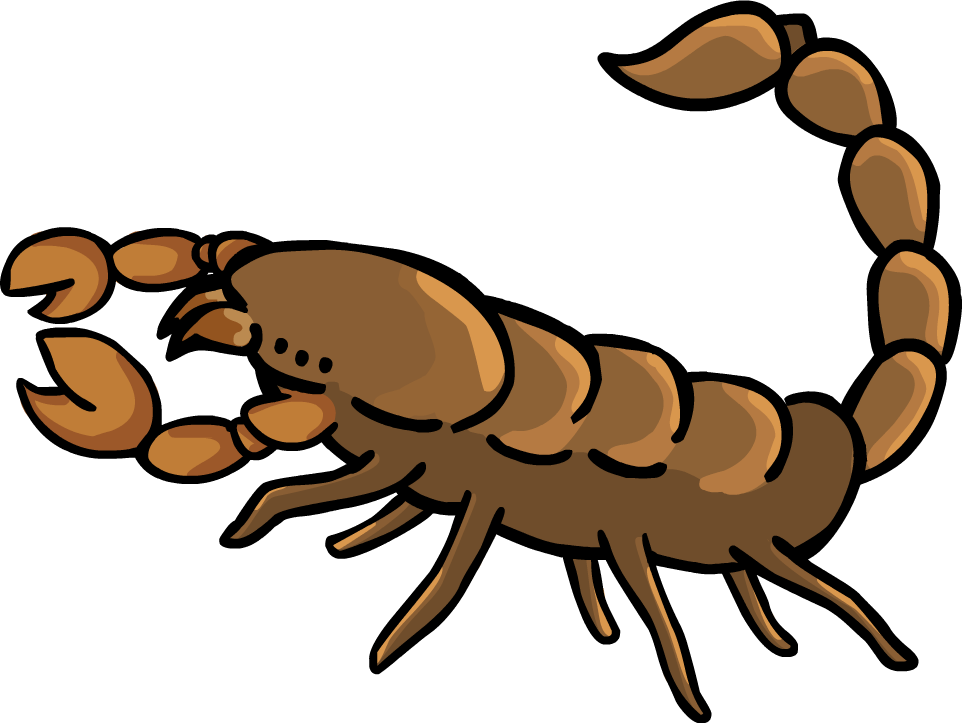
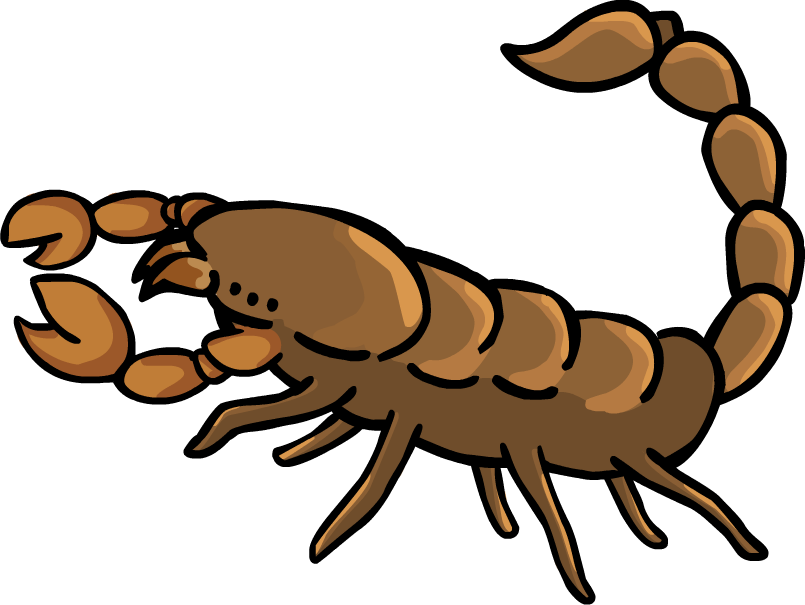
animation finalized?

diff --git a/game/js/Scorpion.js b/game/js/Scorpion.js
@@ -168,6 +168,10 @@ Scorpion = function(game, key, x, y, playerNum){
 
     //misc.
     this.canLightAttack = true; 
+
+    //sound
+    this.jump_sound = game.add.audio('jump_sound');
+
 }
 
 Scorpion.prototype = Object.create(Phaser.Sprite.prototype);
@@ -367,7 +371,7 @@ Scorpion.prototype.lightAttack = function(){
         //this.debugText.text = 'done';
         //this.projectile();
         //this.char.loadTexture('scorpion_idle');
-        this.char.frame= 7;//('Scorpion_Idle');
+        this.char.frame= 4;//('Scorpion_Idle');
         this.changeState(this.input);
         this.action.attacking = false;
         this.canLightAttack = false;
@@ -422,7 +426,7 @@ Scorpion.prototype.heavyAttack = function(){
             //this.action.cancel = false;
             //this.char.loadTexture('scorpion_B2');
 
-            this.char.frame=10;//('Scorpion_HeavyAttack');
+            this.char.frame=12;//('Scorpion_HeavyAttack');
             
             this.fist.position.x = this.position.x; //AG: Brings fist back on screen
             this.fist.position.y = this.position.y -100;
@@ -676,6 +680,7 @@ Scorpion.prototype.input = function(){
         //AG: Did an hardcode. Will only jump if at inital spawn y coordinate so not extendable if we want platforms
         if(game.input.keyboard.justPressed(this.keyUp) && this.body.touching.down && !this.action.block ){
             this.body.velocity.y = this.jumpHeight;
+            this.jump_sound.play();
         }
 
         //blocking NH
@@ -748,7 +753,7 @@ Scorpion.prototype.input = function(){
 
             if (this.action.jump && !this.staggered){
                 //this.char.setTexture('scorpion_jump');
-                this.char.frame= 4;//('Scorpion_Jump');
+                this.char.frame= 10;//('Scorpion_Jump');
             }else if(this.staggered) {
                 //this.char.setTexture('scorpion_stagger');
                 this.char.animation.play('scorpion_stagger');
@@ -800,7 +805,7 @@ Scorpion.prototype.input = function(){
 
             if (this.action.jump){
                 //this.char.setTexture('scorpion_jump');
-                this.char.frame= 4;//('Scorpion_Jump');
+                this.char.frame= 10;//('Scorpion_Jump');
             }else{
                 //this.char.loadTexture('scorpion_idle');
                 
@@ -817,7 +822,7 @@ Scorpion.prototype.input = function(){
 
             if (this.action.jump && !this.action.stagfall){
                 //this.char.setTexture('scorpion_jump');
-                this.char.frame=4;//('Scorpion_Jump');
+                this.char.frame=10;//('Scorpion_Jump');
             }else if (this.action.block){
                 //this.char.setTexture('scorpion_crouch');
                 //this.char.frame=('Scorpion_crouch');
@@ -827,7 +832,7 @@ Scorpion.prototype.input = function(){
                 this.char.animations.play('scorpion_stagger');
             }else {
                 //this.char.setTexture('scorpion_idle');
-                this.char.frame=7;//('Scorpion_Idle');
+                this.char.frame=4;//('Scorpion_Idle');
             }
 
          

diff --git a/game/js/preloader.js b/game/js/preloader.js
@@ -40,6 +40,9 @@ var preloaderState = {
         //Projectiles
         game.load.image('water_bottle', 'assets/img/Security/water_bottle.png');
         game.load.atlas('security_atlas', 'assets/img/Security/security_spritesheet.png','assets/img/Security/security_spritesheet.json');
+
+        //audio 
+        game.load.audio('jump_sound', ['assets/audio/jump.wav']);
         
 	},
 
